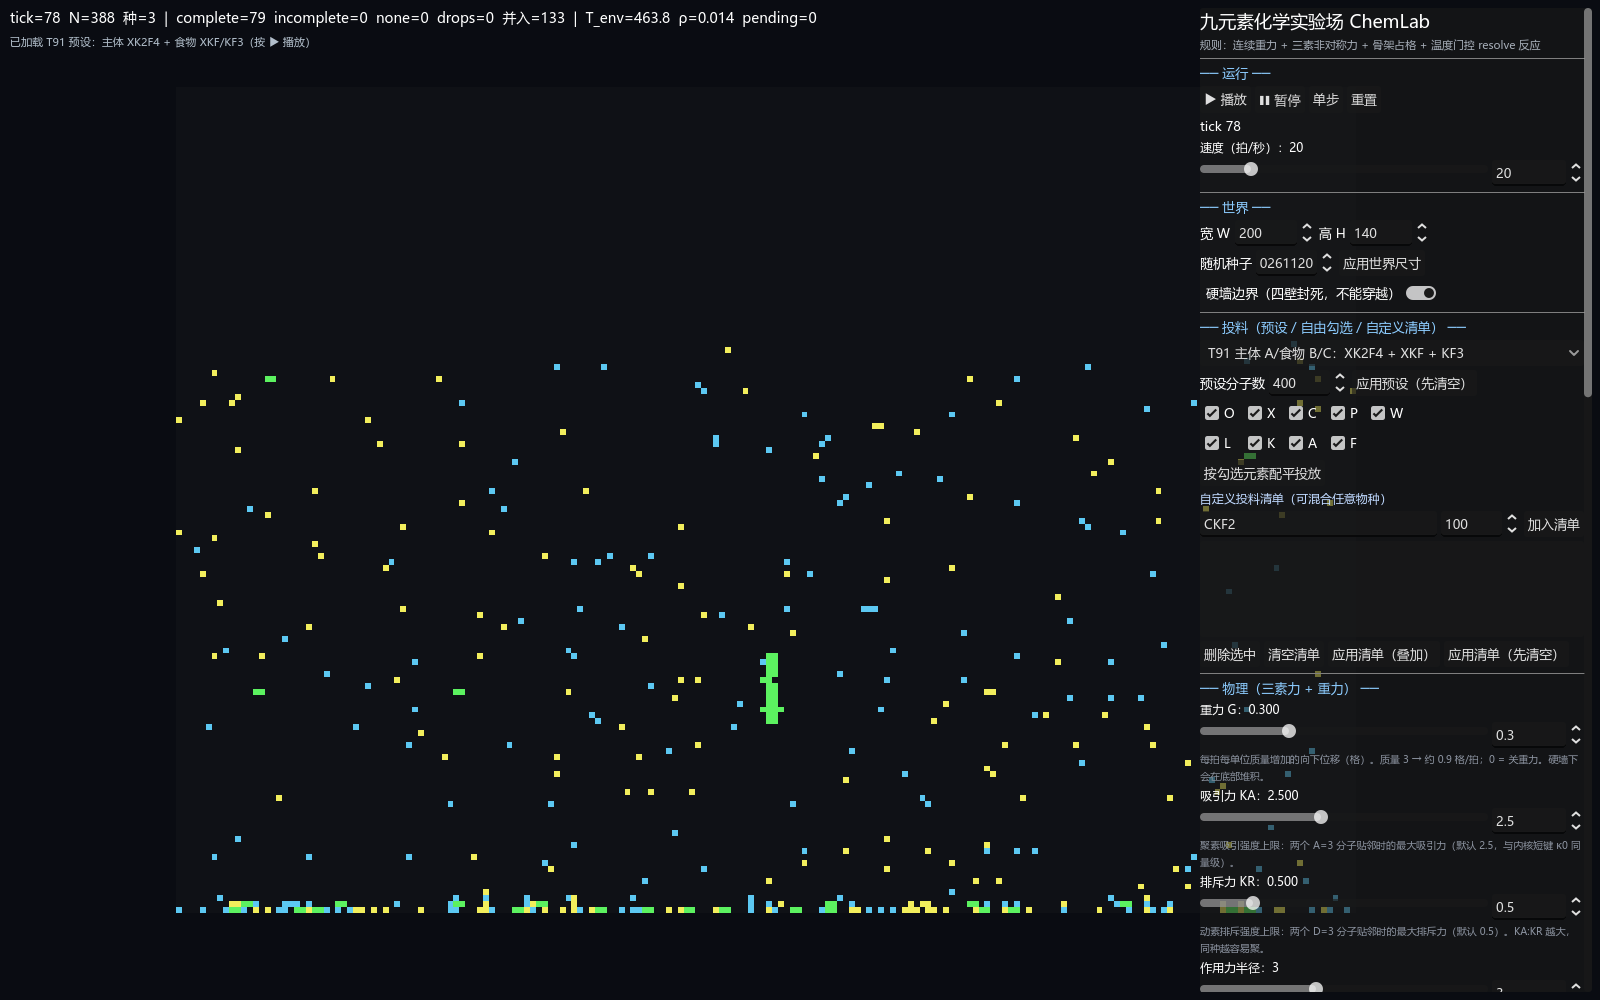
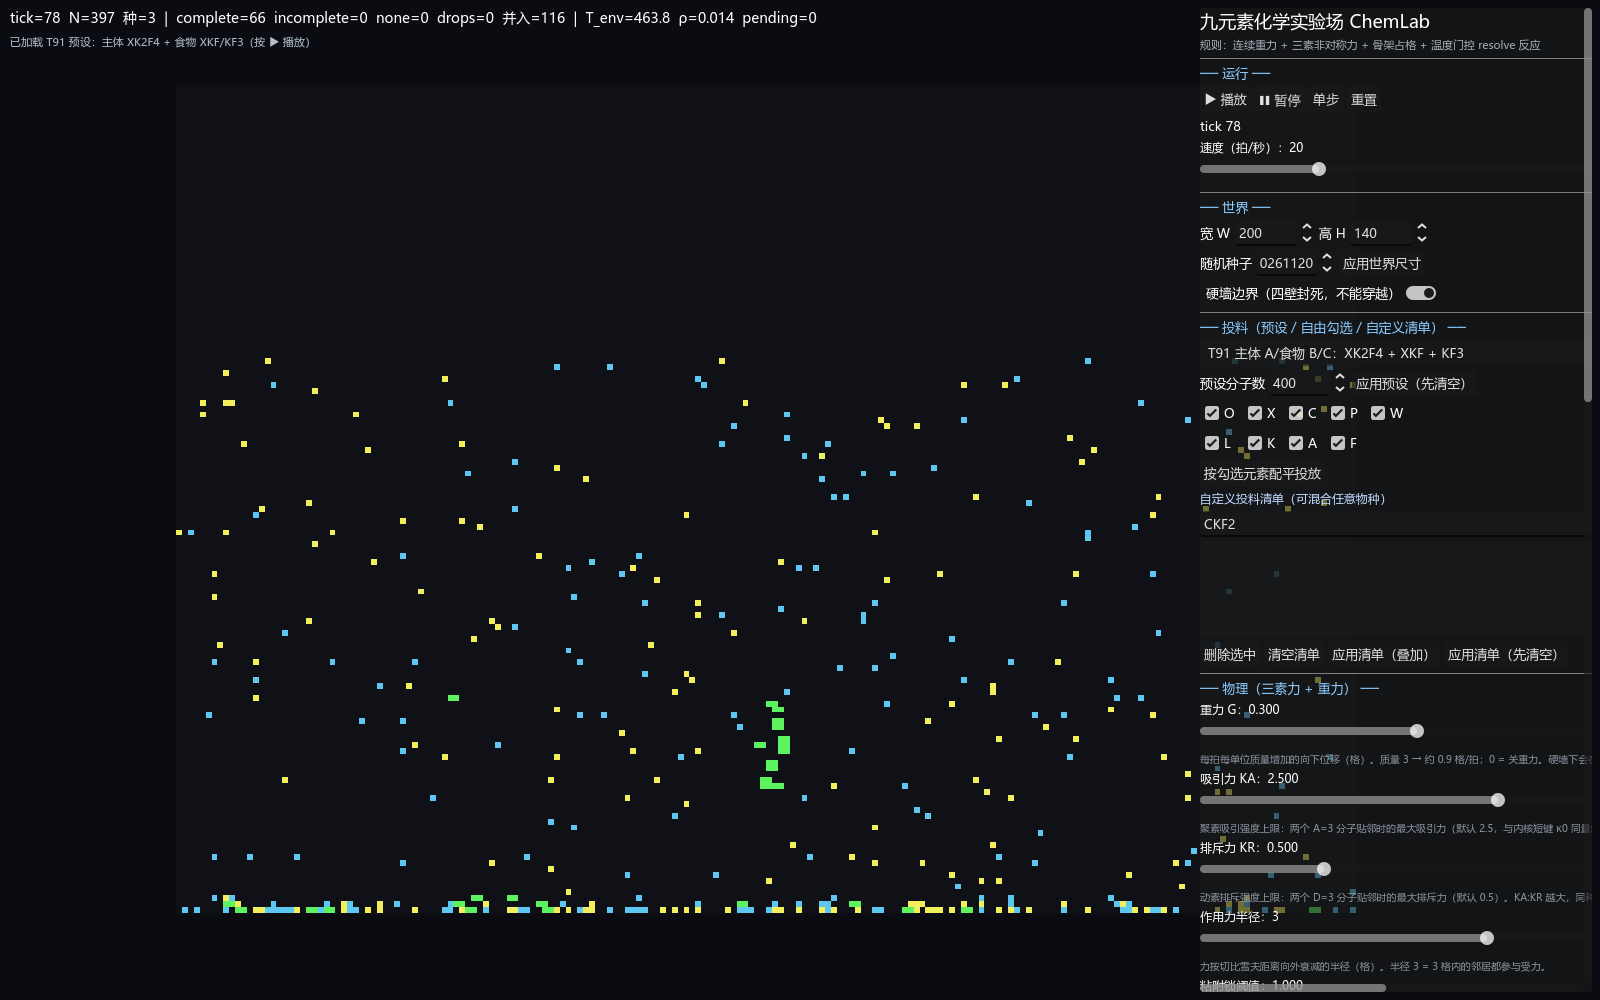
ChemLab: 去布朗运动 + 反应概率到100% + 温度维度改为可调权重（C=-1/L=1/F=2，面板可改）

diff --git a/godot/chem_lab/kernel_server.py b/godot/chem_lab/kernel_server.py
@@ -135,7 +135,7 @@ def molecule_info(f):
         "D": round(sc["D"], 3),
         "ratt": sc["r_att"],
         "rrep": sc["r_rep"],
-        "heat": int(comp.get("L", 0) + 2 * comp.get("F", 0)),
+        "heat": int(-comp.get("C", 0) + comp.get("L", 0) + 2 * comp.get("F", 0)),  # 默认权重 C=-1 L=1 F=2（客户端可覆盖）
         "c": max(1, len(atoms) - 1),
     }
     _MOL_CACHE[f] = info

diff --git a/godot/chem_lab/docs/CHEMLAB_PARAMS.md b/godot/chem_lab/docs/CHEMLAB_PARAMS.md
@@ -39,7 +39,7 @@ tick=78  N=408 种=3 | complete=30 incomplete=0 none=0 drops=0 并入=55 | T_env
 | 参数 | 默认 | 范围 | 含义与公式 |
 |---|---|---|---|
 | 宽 W / 高 H | 200 / 140 | 60~800 / 40~600 | 网格尺寸，**1 格 = 1 个骨架块**（多骨架分子占 k 格）。W\*H 是分子数硬上限。 |
-| 随机种子 | 20261120 | 1~999999999 | 所有随机（投放位置、布朗、反应抽样）都由它派生；同种子同参数可复现。 |
+| 随机种子 | 20261120 | 1~999999999 | 所有随机（投放位置、反应抽样）都由它派生；同种子同参数可复现。 |
 | 硬墙边界 | 勾选 | 开/关 | 开：四壁封死，越界即拒绝（推荐，物理下沉会堆在底行）；关：环面（上下左右绕回）。切换即时生效。 |
 | 应用世界尺寸 | — | — | 按上面 W/H 重建世界（会清空当前全部分子）。 |
 
@@ -71,7 +71,7 @@ tick=78  N=408 种=3 | complete=30 incomplete=0 none=0 drops=0 并入=55 | T_env
 - 吸引力半径 `ratt`、排斥力半径 `rrep` 由散素族（K/A/F）点数 Q 决定：`ratt = 1 + [Q≥10] + [Q≥20]`，`rrep = 1 + [Q≥15] + [Q≥30]`；
 - 质量 `mass` = (3·n_O+2·n_K+1·n_P)/相关原子数，0~3（轻/中/重阈值 1.67 / 2.30）；
 - 物态 `state` = (3·n_X+2·n_W+1·n_A)/相关原子数，0~3（气/液/固阈值 1.70 / 2.22）；
-- 热值 `heat` = n_L + 2·n_F（整数，越大越"热"）。
+- 热值 heat = wC·n_C + wL·n_L + wF·n_F（整数，可为负；默认权重 C=−1、L=+1、F=+2，面板里可改：F 最热、L 温、C 冷源）。
 
 | 参数 | 默认 | 范围 | 公式 / 含义 / 调参影响 |
 |---|---|---|---|
@@ -81,7 +81,6 @@ tick=78  N=408 种=3 | complete=30 incomplete=0 none=0 drops=0 并入=55 | T_env
 | 作用力半径 | 3 | 1~6 | 合力只统计锚点切比雪夫距离 ≤ 该值的邻居。调大：长程作用更强、计算更贵。 |
 | 粘附锁阈值 | 1.0 | 0~4.0 | 两个相邻（d=1）分子，若**双向**净力都 ≥ 该值（`min(w_ab, w_ba) ≥ lock_w`），则互相锁定：任何一步移动后两者距离不得超过「锁断裂距离」，否则该步移动被拒绝。这就是"吸引到一定程度锁在一起"。 |
 | 锁断裂距离 | 2 | 1~5 | 锁定时允许拉开的切比雪夫距离；超过则拒绝移动（1 = 必须始终相邻）。数值越大越"韧"。 |
-| 布朗概率 | 0.040 | 0~0.3 | 当合力模长 < 0.02（几乎无力）时，每拍有该概率随机走 8 邻域一步。是唯一的"无方向扩散"。 |
 | 气态迁移率 | 1.000 | 0~1.5 | 迁移概率乘子：`p_move = mob(state)·min(1, 0.25+0.75·|F|)`；state<1 用气态值。 |
 | 液态迁移率 | 0.600 | 0~1.5 | state∈[1,2) 用。 |
 | 固态迁移率 | 0.250 | 0~1.5 | state≥2 用。三档合起来就是"物态→碰撞/运动"轴。 |
@@ -91,10 +90,11 @@ tick=78  N=408 种=3 | complete=30 incomplete=0 none=0 drops=0 并入=55 | T_env
 
 **锁定不是化学键**：锁只约束相对位置，不改分子式、不占价键位点；化学键只由内核 `F(v)` 生成。
 
-## 5. 温度区（恒素场 / 热门控）
+## 5. 温度区（热值权重 / 环境温度场 / 热门控）
 
 | 参数 | 默认 | 范围 | 公式 / 含义 |
 |---|---|---|---|
+| 热值权重 C / L / F | -1 / 1 / 2 | 每个 -4~+4 | 温度轴改成可调权重：heat = wC·n_C + wL·n_L + wF·n_F。默认冰 C=−1（冷源）、电 L=+1（温）、焰 F=+2（热源）；改完点「应用热值权重」立即重算所有分子。热值可为负数。 |
 | 初始温度 T0 | 1000.0 | 0~1200 | `schedule_T(0) = T0`。Thermal 单位与内核 resolve 的 `c` 同量级（c = 原子数−1），所以"温度够不够"直接可比。 |
 | 终温 T_end | 10.0 | 0~400 | 降温曲线终点。 |
 | 降温拍数 | 600 | 10~3000 | `t < ct` 时 `T(t) = T_end + (T0−T_end)·exp(−6t/ct)`；t ≥ ct 后：开平台 → 恒为 T_end；关平台 → `T_end·exp(−3(t−ct)/ct)` 继续降向 0。 |
@@ -117,7 +117,7 @@ resolve → complete / incomplete / none
 
 | 参数 | 默认 | 范围 | 含义 |
 |---|---|---|---|
-| 反应概率/接触 | 0.020 | 0~0.2 | 条件满足后每次接触的触发概率。调大：整体反应更快更密（同时异步请求更多）；调 0：纯物理对照。 |
+| 反应概率/接触 | 0.020 | 0~**1.0** | 条件满足后每次接触的触发概率。**1.0 = 每次满足温度与 cap 的接触都必反应**（不再抽样）；调 0：纯物理对照。 |
 | 温度门槛余量 | 0.0 | 0~20 | `T_local ≥ csum + 余量`。调大：更难反应（更"冷"）；T91 建议用 `+2` 防止 C 自身富集区自触发。 |
 | 反应原子上限 cap | 36 | 4~80 | `natoms_a + natoms_b ≤ cap` 才尝试反应。调大：允许更大分子参与（更慢、更可能裂多产物）；调小：只允许小分子。 |
 
@@ -182,3 +182,13 @@ resolve → complete / incomplete / none
 | `stats` | — | 内核统计（缓存命中、调用数） |
 
 改端口：`kernel_server.py` 顶部 `PORT`；`scripts/kernel_client.gd` 的 `PORT` 同步即可。
+
+## 附：温度权重的默认含义
+
+| 元素 | 默认权重 | 含义 |
+|---|---|---|
+| C（冰） | −1 | 冷源：让局部温度降低，抑制反应 |
+| L（电） | +1 | 温：中性偏热 |
+| F（焰） | +2 | 热源：抬高局部温度，促进反应 |
+
+公式 heat = wC·n_C + wL·n_L + wF·n_F。三个权重都在面板「温度」区可改（−4~+4，步长 0.5），点「应用热值权重」后立即重算全部类型与现存分子。

diff --git a/godot/chem_lab/README.md b/godot/chem_lab/README.md
@@ -79,7 +79,6 @@ un_lab.bat（自动起内核 + 打开游戏）。
 | 作用力半径 | 计算合力时扫描的 Chebyshev 半径 |
 | 粘附锁阈值 | 双方互作用力的较小值 ≥ 该值即记"粘附锁"（锁住相对位置，拉不开；不是化学键） |
 | 锁断裂距离 | 锁住的伙伴被拉到超过该距离则移动被拒绝 |
-| 布朗概率 | 无力时的随机抖动概率 |
 | 气/液/固迁移率 | 物态决定移动概率的上限 |
 
 ### 温度面板
@@ -107,7 +106,7 @@ un_lab.bat（自动起内核 + 打开游戏）。
    - A/D 来自 `alchemy.three_su.scores()`（聚素吸引力/动素排斥力均值），半径来自散素点数 Q。
 4. **粘附锁**：相邻且双向净力较小值 ≥ 阈值 → 记锁，移动时不能把锁伙伴拉开太远。**不是化学键**。
 5. **反应**：相邻分子对，先看 `T_local ≥ c_A + c_B + margin`，再按 `p_react` 掷骰；通过后向内核 `resolve` 发异步请求（Python 侧真正的规则 1~11），返回 `complete / incomplete / none` 与产物；complete/incomplete 才消耗两分子并在附近放置产物。
-6. **温度**：分子热值 `heat = n_L + 2·n_F`（元素 F 最热、L 次之、C 冷）；T_local 用邻域平均 + 环境耦合；环境按上面的指数曲线降温并恒温。
+6. **温度**：分子热值 heat = wC·n_C + wL·n_L + wF·n_F（权重默认 C=−1、L=+1、F=+2，温度面板可调并「应用热值权重」；F 最热、L 温、C 冷源）；T_local 用邻域平均 + 环境耦合；环境按上面的指数曲线降温并恒温。
 
 ## 内核服务（Python 侧车）
 
